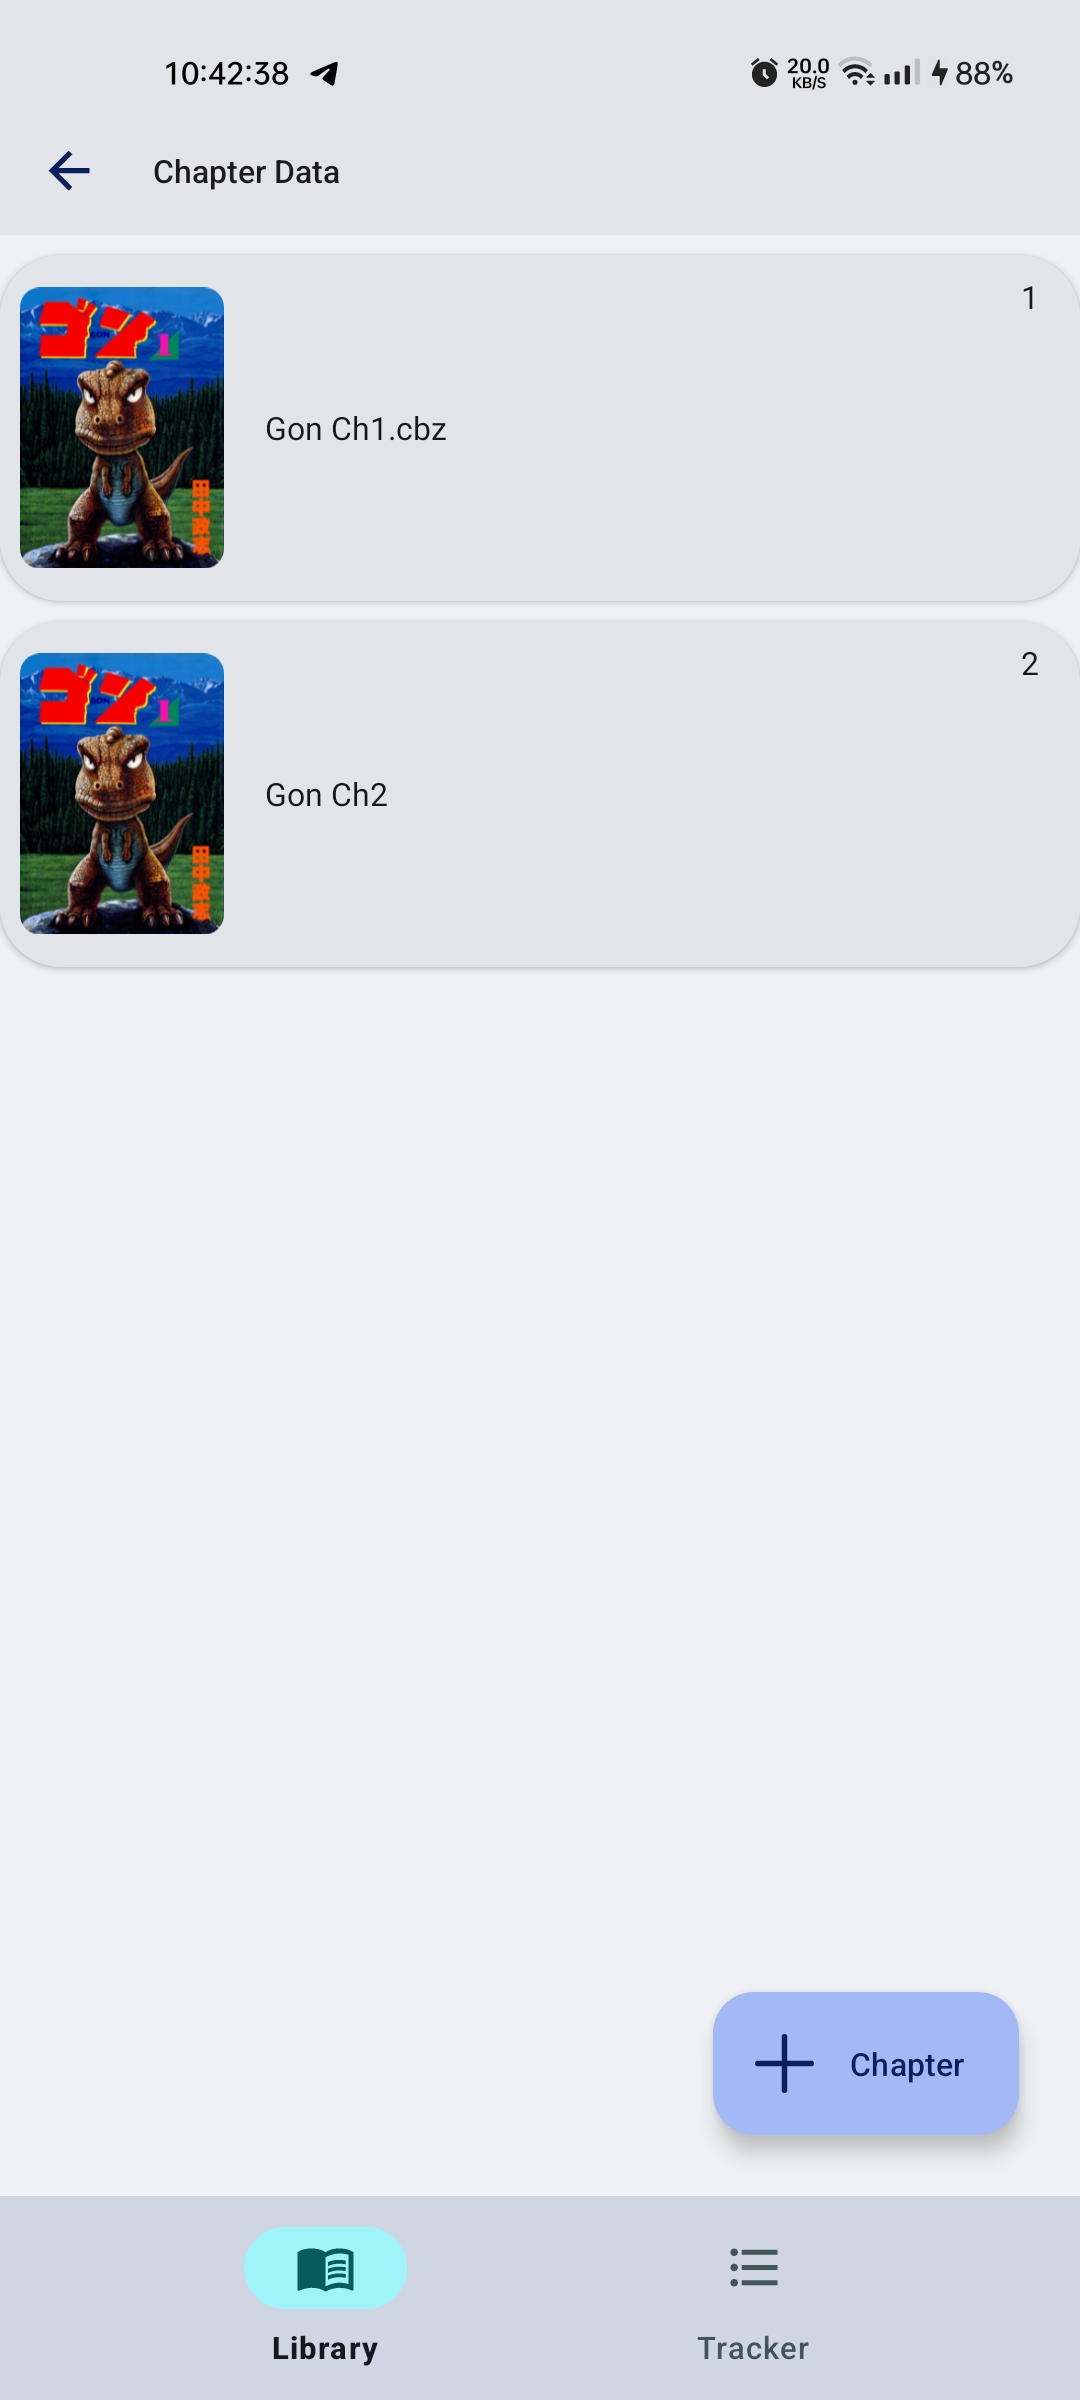
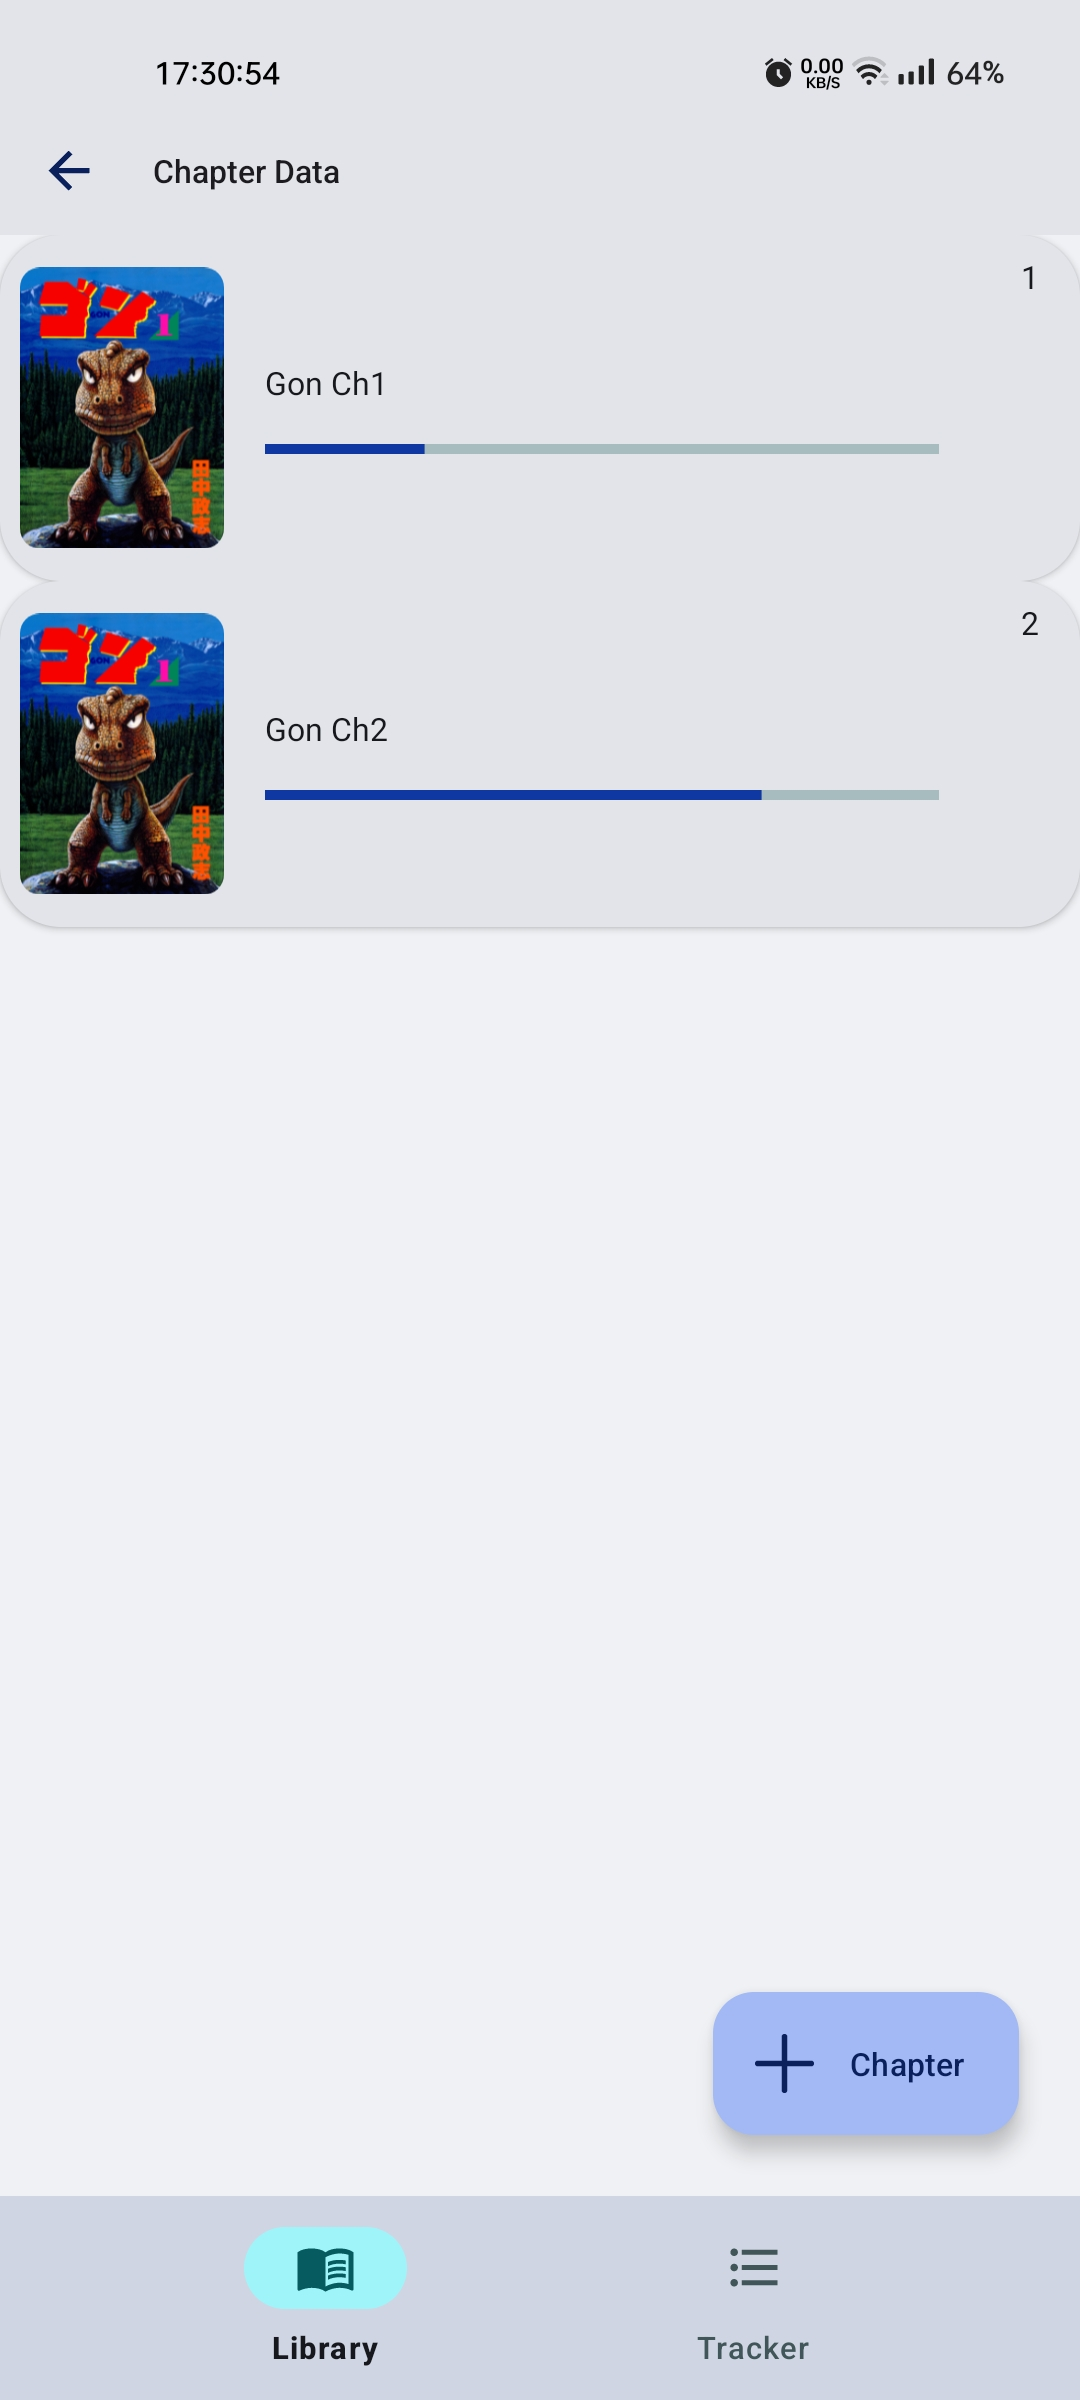
Adde new images
Added emages for reader and chapter list, update of README.

diff --git a/docs/Assignment-3/chapters/Implementazione.tex b/docs/Assignment-3/chapters/Implementazione.tex
@@ -40,6 +40,7 @@ Questo vincolo è stato possibile grazie all'utilizzo del plug in \href{https://
 \section{Backup Del DB}
 
 Utilizzando le \href{https://developer.android.com/guide/topics/data/autobackup}{funzionalità native} di Android abbiamo implementato un sistema di Backup che permette all'utente di spostare la reading list senza bisogno di esportare alcun file.\\
+Abbiamo usato le proprietà del manifest per inidcare ad Android di effettuare il back-up dei file dell'applicazione e di permettere il trasferimento dei file quando si avvicina un nuovo dispositivo da inizializzare.
 
 \section{Reader}
 

diff --git a/docs/Assignment-3/chapters/Wireframe-e-navigazione.tex b/docs/Assignment-3/chapters/Wireframe-e-navigazione.tex
@@ -222,9 +222,9 @@ Dopo aver premuto sul risultato cercato si aprirà un form per la conferma dei d
 
 \subsection{Reader}
 
-%\begin{center}
-%   \includegraphics[scale=0.15]{tracker_redesign.jpg}
-%\end{center}
+\begin{center}
+   \includegraphics[scale=0.15]{reader_redesign.jpg}
+\end{center}
 
 Premendo su un capitolo l'utente verrà portato al reader, l'utente si potrà muovere tra le pagine con degli swipe a sinistra e destra.\\
 Il Reader è stato implementato in modo tale che riprenda dall'ultima pagina che l'utente ha visualizzato.

diff --git a/docs/README.md b/docs/README.md
@@ -1,3 +1,3 @@
 # [Assignment 1](./Assignment-1/Assignment-1-LPSMT.md)
 # [Assignment 2](./Assignment-2/Assignment-2-LPSMT.md)
-# [Assignment 3](./Assignment-2/Assignment-3-LPSMT.md)
+# [Assignment 3](./Assignment-3/Assignment-3-LPSMT.md)
